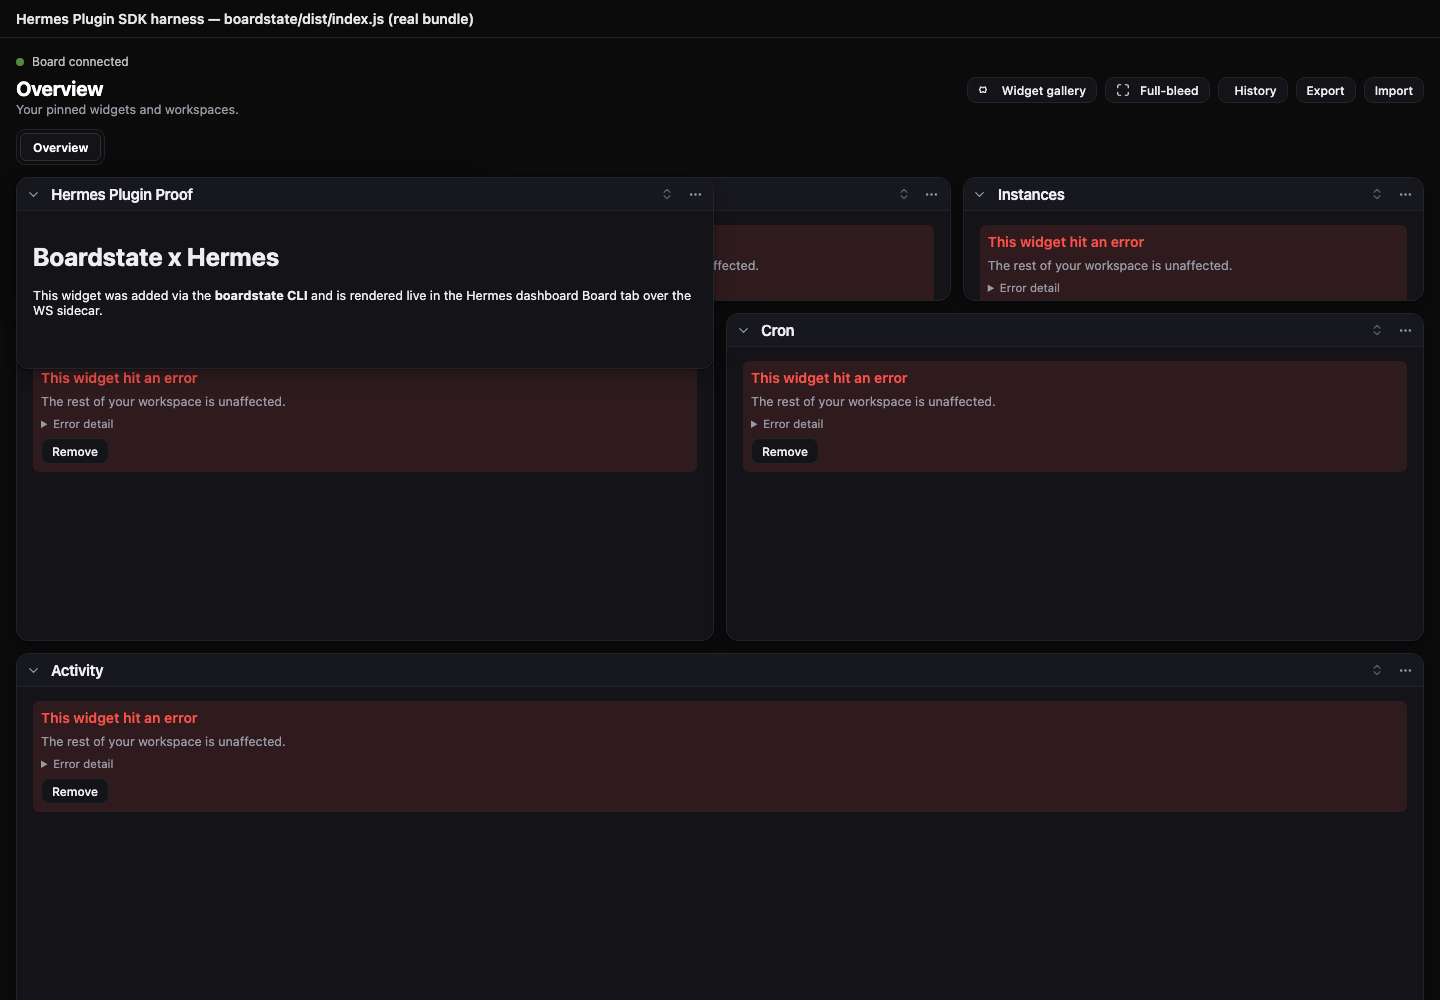
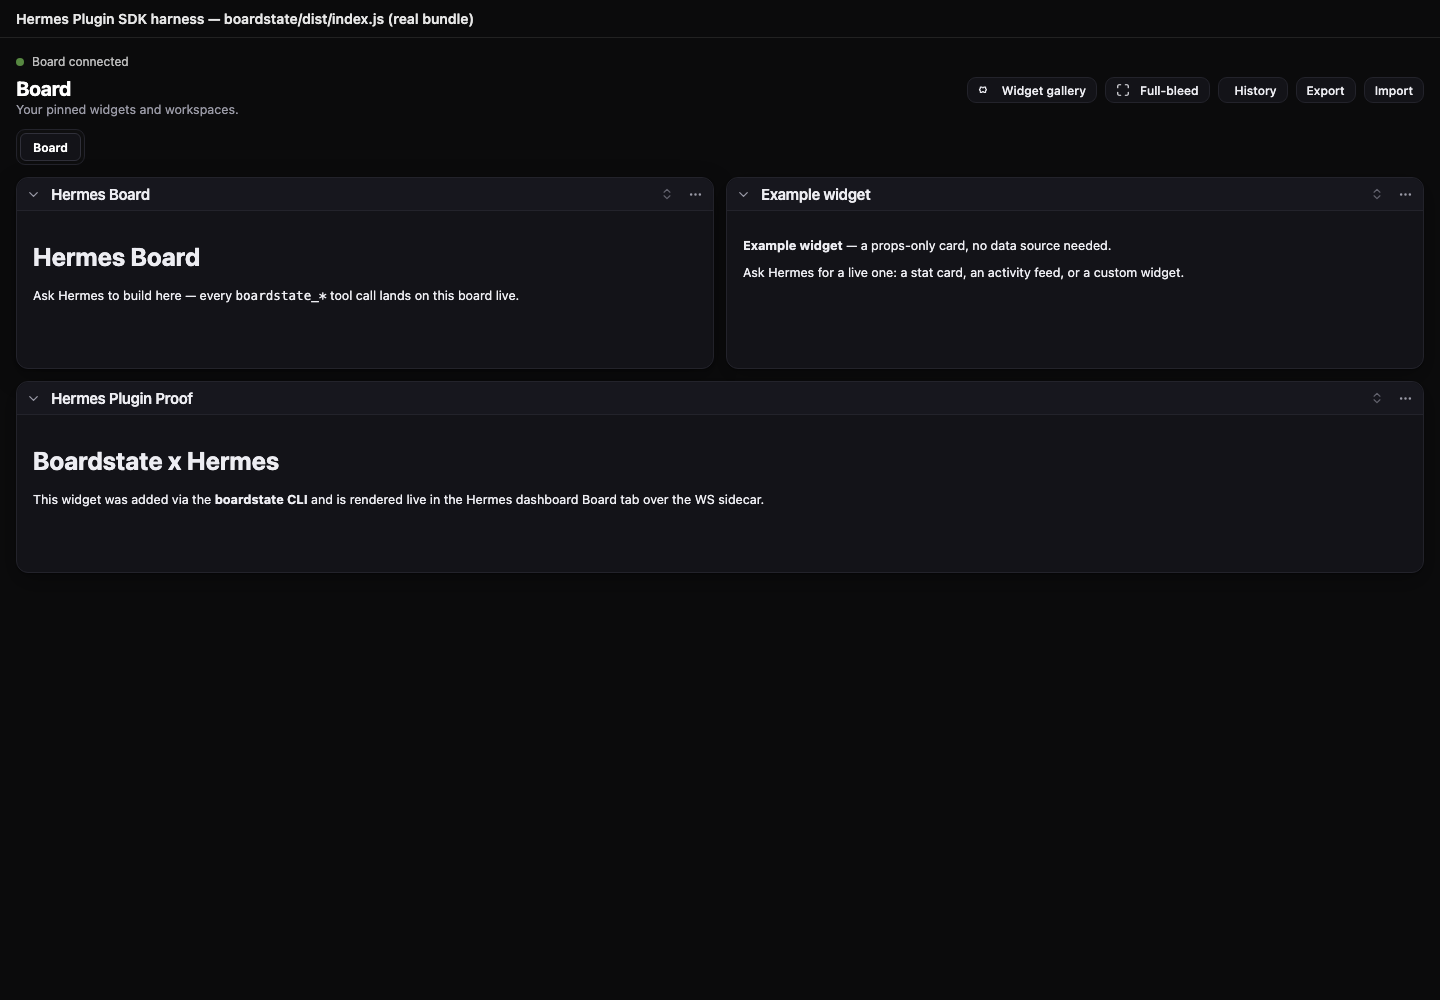
fix(seed): Hermes-native welcome board on empty state dir; no error cells
The upstream DashboardStore seeds a default Overview whose stat-card/instances/
cron widgets bind to host RPCs a generic Boardstate sidecar doesn't serve — they
render as red error cells and read as OpenClaw-flavored, wrong for a Hermes plugin.

- sidecar seeds a clean, Hermes-native board (tab 'board': welcome + example
  markdown, props-only) when workspace.json is absent; non-empty dirs untouched
- Hermes-native copy in seed + README (no OpenClaw concepts / generic-agent phrasing)
- refresh hero image .github/media/board-tab.png: Board connected, welcome H1 +
  example + live CLI-added proof widget, zero error cells

diff --git a/dashboard/sidecar/src/server.ts b/dashboard/sidecar/src/server.ts
@@ -19,6 +19,7 @@
 import { createServer, type IncomingMessage, type ServerResponse } from "node:http";
 import { DashboardStore } from "@boardstate/core";
 import { FsStorageAdapter } from "@boardstate/core/node";
+import { validateWorkspaceDoc } from "@boardstate/schema";
 import {
   attachWsTransport,
   createInProcessHost,
@@ -30,6 +31,68 @@ import {
 const stateDirEnv = process.env.BOARDSTATE_STATE_DIR;
 const storage = new FsStorageAdapter(stateDirEnv ? { storageDir: stateDirEnv } : {});
 const store = new DashboardStore({ storage });
+
+// A clean, fully-renderable, Hermes-native first-boot board. The upstream
+// `DashboardStore` seeds a default "Overview" whose stat-card/instances/etc. widgets
+// bind to host RPCs a generic Boardstate sidecar doesn't serve — those render as red
+// error cells. We pre-empt that seed for an EMPTY state dir only (workspace.json
+// absent — the exact condition the default seed triggers on), so an operator's first
+// open shows a welcoming board with zero error cells. A non-empty dir is never touched.
+const WELCOME_WORKSPACE = {
+  schemaVersion: 1,
+  workspaceVersion: 1,
+  widgetsRegistry: {},
+  prefs: { tabOrder: ["board"] },
+  tabs: [
+    {
+      slug: "board",
+      title: "Board",
+      icon: "layoutDashboard",
+      hidden: false,
+      createdBy: "system",
+      widgets: [
+        {
+          id: "welcome",
+          kind: "builtin:markdown",
+          title: "Hermes Board",
+          grid: { x: 0, y: 0, w: 6, h: 3 },
+          collapsed: false,
+          hidden: false,
+          props: {
+            markdown:
+              "# Hermes Board\n\nAsk Hermes to build here — every `boardstate_*` tool call lands on this board live.",
+          },
+        },
+        {
+          id: "example",
+          kind: "builtin:markdown",
+          title: "Example widget",
+          grid: { x: 6, y: 0, w: 6, h: 3 },
+          collapsed: false,
+          hidden: false,
+          props: {
+            markdown:
+              "**Example widget** — a props-only card, no data source needed.\n\nAsk Hermes for a live one: a stat card, an activity feed, or a custom widget.",
+          },
+        },
+      ],
+    },
+  ],
+};
+
+async function seedInitialWorkspaceIfEmpty(): Promise<void> {
+  // `readFile` returns null when the file is absent — the same signal the store's own
+  // seed uses. Present ⇒ an existing board we must leave untouched.
+  if ((await storage.readFile(store.workspacePath)) !== null) {
+    return;
+  }
+  const doc = validateWorkspaceDoc(structuredClone(WELCOME_WORKSPACE));
+  await storage.mkdir(store.dashboardDir);
+  await storage.writeFileAtomic(store.workspacePath, JSON.stringify(doc, null, 2));
+}
+
+await seedInitialWorkspaceIfEmpty();
+
 const host = createInProcessHost(store, storage);
 // Same registration the MCP server uses: base 14 methods + shipped extensions, with
 // the node-side file-binding resolver + widget-bundle installer injected.

diff --git a/dashboard/sidecar/server.js b/dashboard/sidecar/server.js
@@ -6936,6 +6936,54 @@ function nodeRpcDeps() {
 var stateDirEnv = process.env.BOARDSTATE_STATE_DIR;
 var storage = new FsStorageAdapter(stateDirEnv ? { storageDir: stateDirEnv } : {});
 var store = new DashboardStore({ storage });
+var WELCOME_WORKSPACE = {
+  schemaVersion: 1,
+  workspaceVersion: 1,
+  widgetsRegistry: {},
+  prefs: { tabOrder: ["board"] },
+  tabs: [
+    {
+      slug: "board",
+      title: "Board",
+      icon: "layoutDashboard",
+      hidden: false,
+      createdBy: "system",
+      widgets: [
+        {
+          id: "welcome",
+          kind: "builtin:markdown",
+          title: "Hermes Board",
+          grid: { x: 0, y: 0, w: 6, h: 3 },
+          collapsed: false,
+          hidden: false,
+          props: {
+            markdown: "# Hermes Board\n\nAsk Hermes to build here \u2014 every `boardstate_*` tool call lands on this board live."
+          }
+        },
+        {
+          id: "example",
+          kind: "builtin:markdown",
+          title: "Example widget",
+          grid: { x: 6, y: 0, w: 6, h: 3 },
+          collapsed: false,
+          hidden: false,
+          props: {
+            markdown: "**Example widget** \u2014 a props-only card, no data source needed.\n\nAsk Hermes for a live one: a stat card, an activity feed, or a custom widget."
+          }
+        }
+      ]
+    }
+  ]
+};
+async function seedInitialWorkspaceIfEmpty() {
+  if (await storage.readFile(store.workspacePath) !== null) {
+    return;
+  }
+  const doc = validateWorkspaceDoc(structuredClone(WELCOME_WORKSPACE));
+  await storage.mkdir(store.dashboardDir);
+  await storage.writeFileAtomic(store.workspacePath, JSON.stringify(doc, null, 2));
+}
+await seedInitialWorkspaceIfEmpty();
 var host = createInProcessHost(store, storage);
 registerBoardstateRpc(host, {
   store,

diff --git a/README.md b/README.md
@@ -2,14 +2,15 @@
 
 A drop-in tab for the [Hermes](https://github.com/NousResearch/hermes-agent) web
 dashboard (`hermes dashboard`) that renders a **live [Boardstate](https://github.com/100yenadmin/boardstate) board** —
-the layout-as-data dashboard an agent builds via `boardstate-mcp`, streamed into the
+the layout-as-data dashboard Hermes builds via `boardstate-mcp`, streamed into the
 Hermes UI over a WebSocket to a local sidecar.
 
 The plugin adds a **Board** tab (after *Skills*). Opening it mounts the real
 `<boardstate-view>` custom element and drives it over the Boardstate networked
 transport. A Node sidecar owns the control plane over an fs-backed store, so a widget
-an agent adds via `boardstate-mcp` (or the `boardstate` CLI) against the same state
-dir shows up on the board.
+Hermes adds via `boardstate-mcp` (or the `boardstate` CLI) against the same state
+dir shows up on the board. On first boot against an empty state dir the sidecar seeds
+a clean, Hermes-native welcome board (no external data bindings, zero error cells).
 
 ![Board tab — live widget over the WS sidecar](.github/media/board-tab.png)
 
@@ -95,7 +96,7 @@ Populate the board with the Boardstate MCP server or CLI against the same dir:
 export BOARDSTATE_STATE_DIR=~/.hermes/boardstate-state
 boardstate dashboard widgets add --tab main --kind builtin:markdown \
   --title "Hello" --props '{"markdown":"# Live from the agent"}'
-# …or run `boardstate-mcp` so an agent builds the board via tools.
+# …or run `boardstate-mcp` so Hermes builds the board via tools.
 ```
 
 > **Cross-process live updates:** the sidecar broadcasts `boardstate.changed` on its